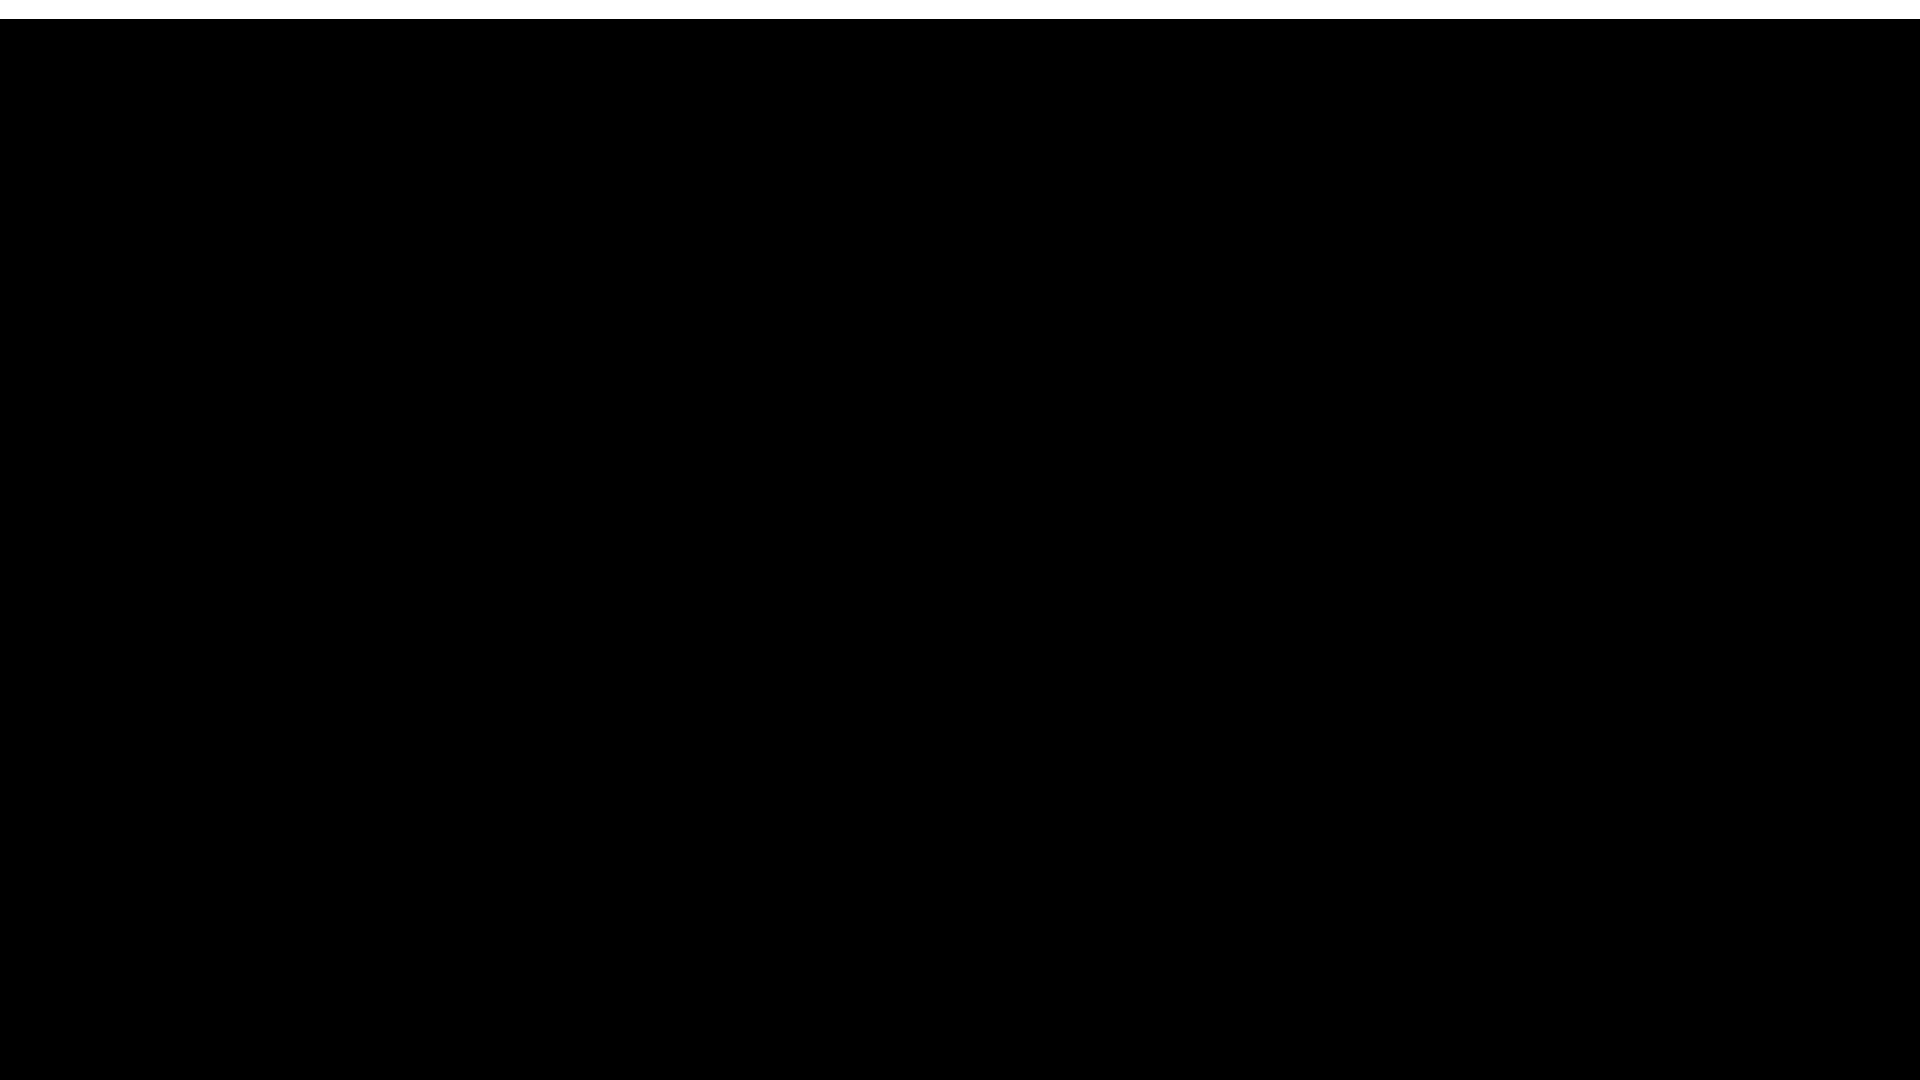
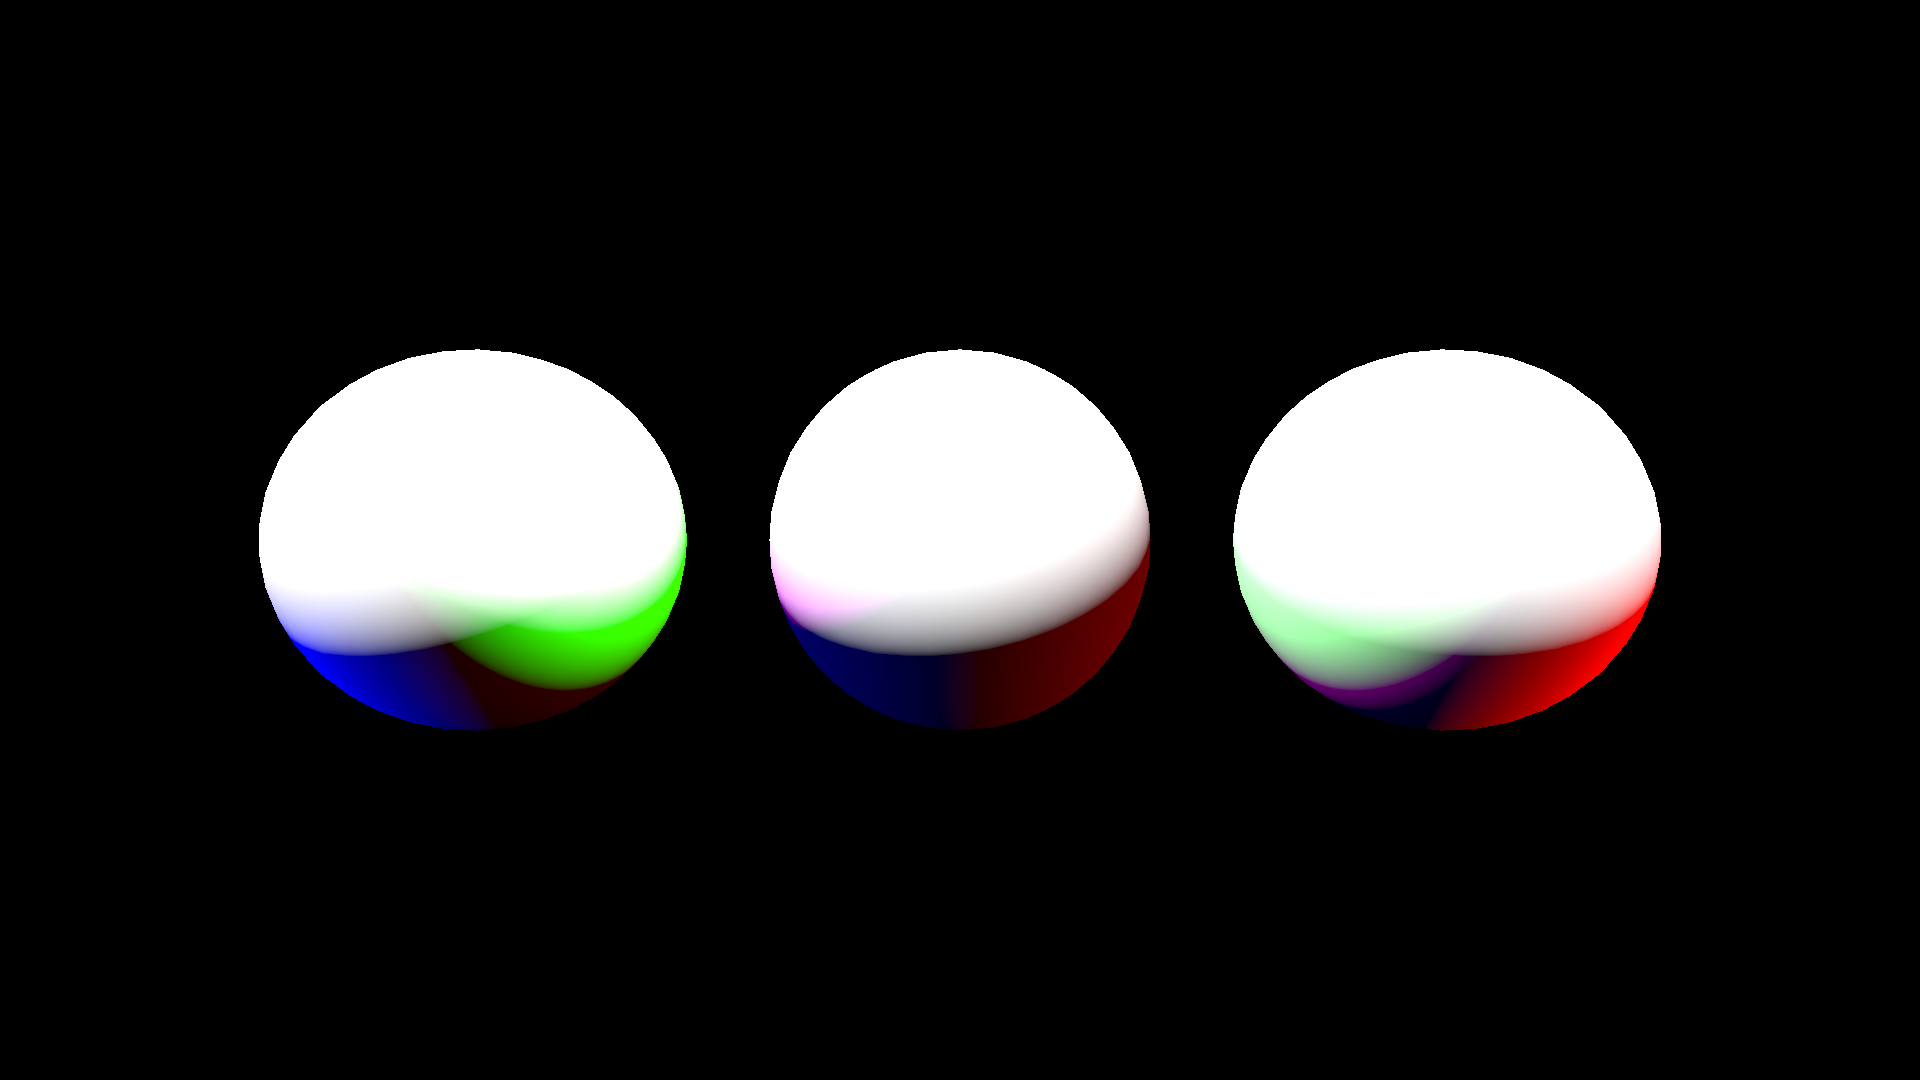
fix entrypoint 1

Changed region(s): [[0.125, 0.3056, 0.875, 0.6722], [0.0, 0.0, 1.0, 0.0306]]

diff --git a/src/urenderer/renderer/opengl/opengl_renderer.py b/src/urenderer/renderer/opengl/opengl_renderer.py
@@ -9,6 +9,7 @@ from OpenGL import GL
 
 from urenderer.geometry.mesh import Mesh
 from urenderer.node import Camera, Light, Node
+from urenderer.node.light import LightType
 from urenderer.renderer.renderer import Renderer
 from urenderer.utils import get_filename_unique
 
@@ -182,8 +183,10 @@ class OpenGLRenderer(Renderer):
             material.shader.set_uniform(f"lights[{i}].position", light_position)
             material.shader.set_uniform(f"lights[{i}].type", light.light_type.value)
             material.shader.set_uniform(f"lights[{i}].color", light.light_color)
-            material.shader.set_uniform(f"lights[{i}].referenceDistance", light.light_reference_distance)
+            material.shader.set_uniform(f"lights[{i}].reference_distance", light.light_reference_distance)
             material.shader.set_uniform(f"lights[{i}].intensity", light.light_intensity)
+            if (light.light_type == LightType.DIRECTIONAL):
+                material.shader.set_uniform(f"lights[{i}].direction", light.light_direction)
         #########################################################################
 
         ## SEU CÓDIGO AQUI ######################################################
